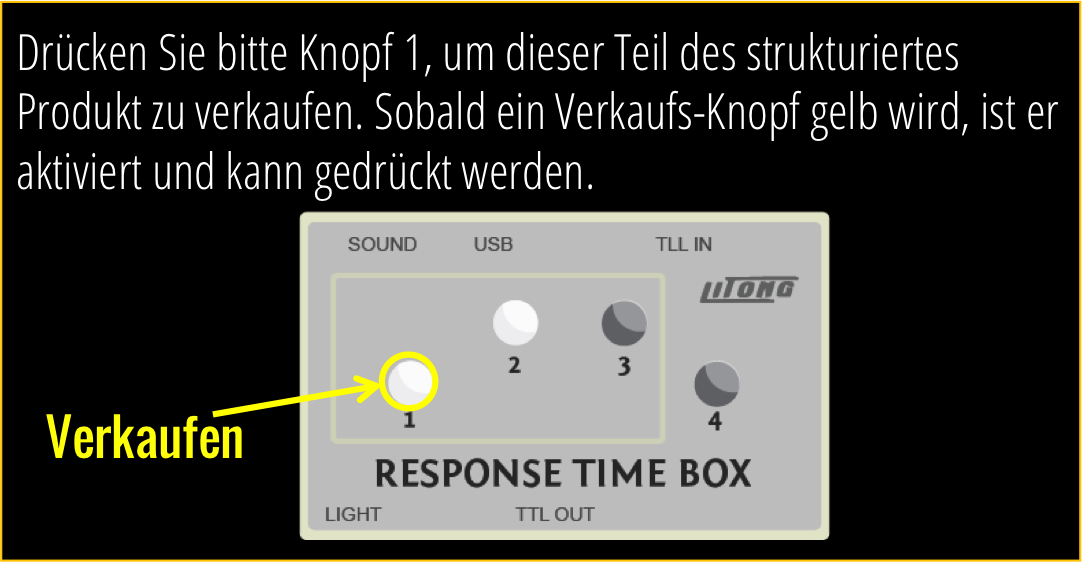
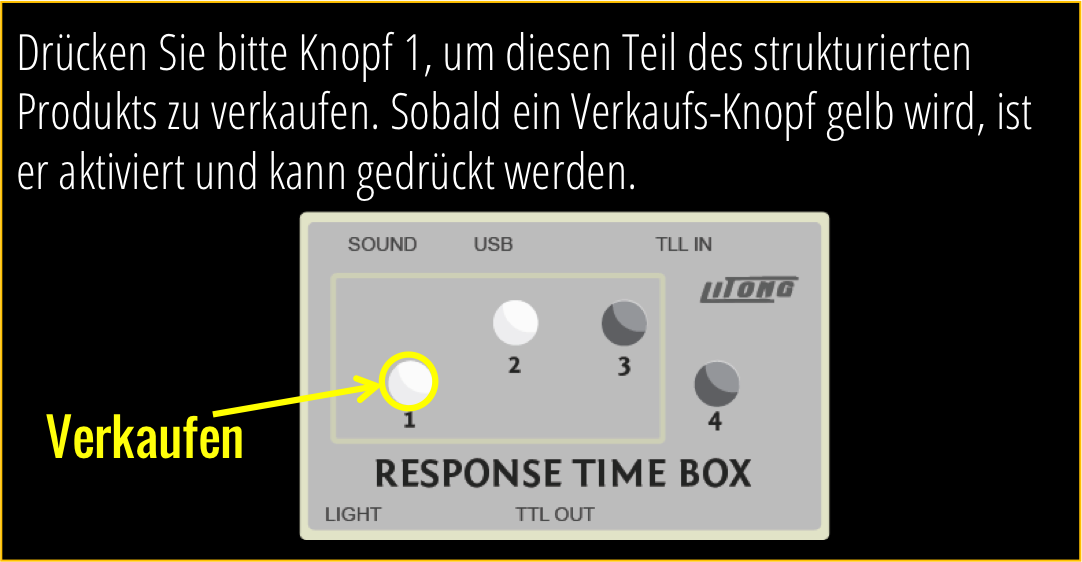
Updates to german grammar

Changed region(s): [[0.122, 0.0605, 0.976, 0.242], [0.0, 0.2722, 0.5795, 0.363]]

diff --git a/cstcg_trading_task.py b/cstcg_trading_task.py
@@ -746,7 +746,7 @@ def change_machine_screen(c):
     waitfun(1000)
     c.log('Changing machines at ' + repr(time.time()) + '\n')
     c.blank_screen()
-    c.text_screen('Gut gemacht! Jetzt geht es weiter auf das n'+ae+'chsten strukturiertes Produkt!', font=c.header, font_color=GOLD, valign='center', y_displacement= -45, wait_time=4000) 
+    c.text_screen('Gut gemacht! Jetzt geht es weiter auf dem n'+ae+'chsten strukturierten Produkt!', font=c.header, font_color=GOLD, valign='center', y_displacement= -45, wait_time=4000) 
 
 def waitfun(milliseconds):
     nowtime = pygame.time.get_ticks()
